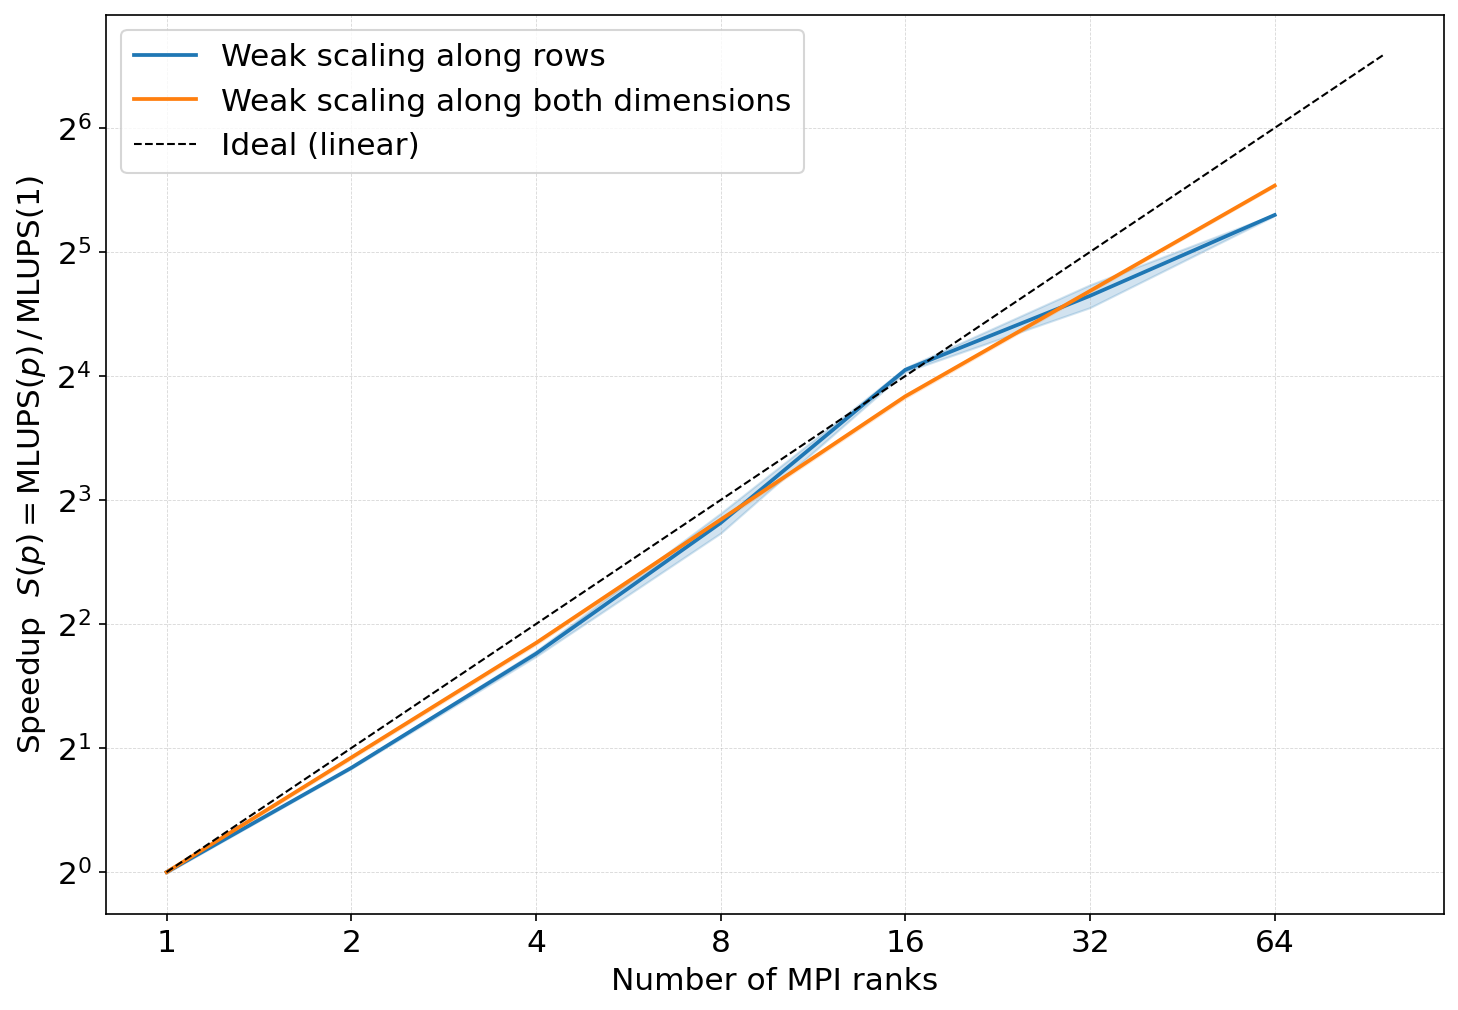
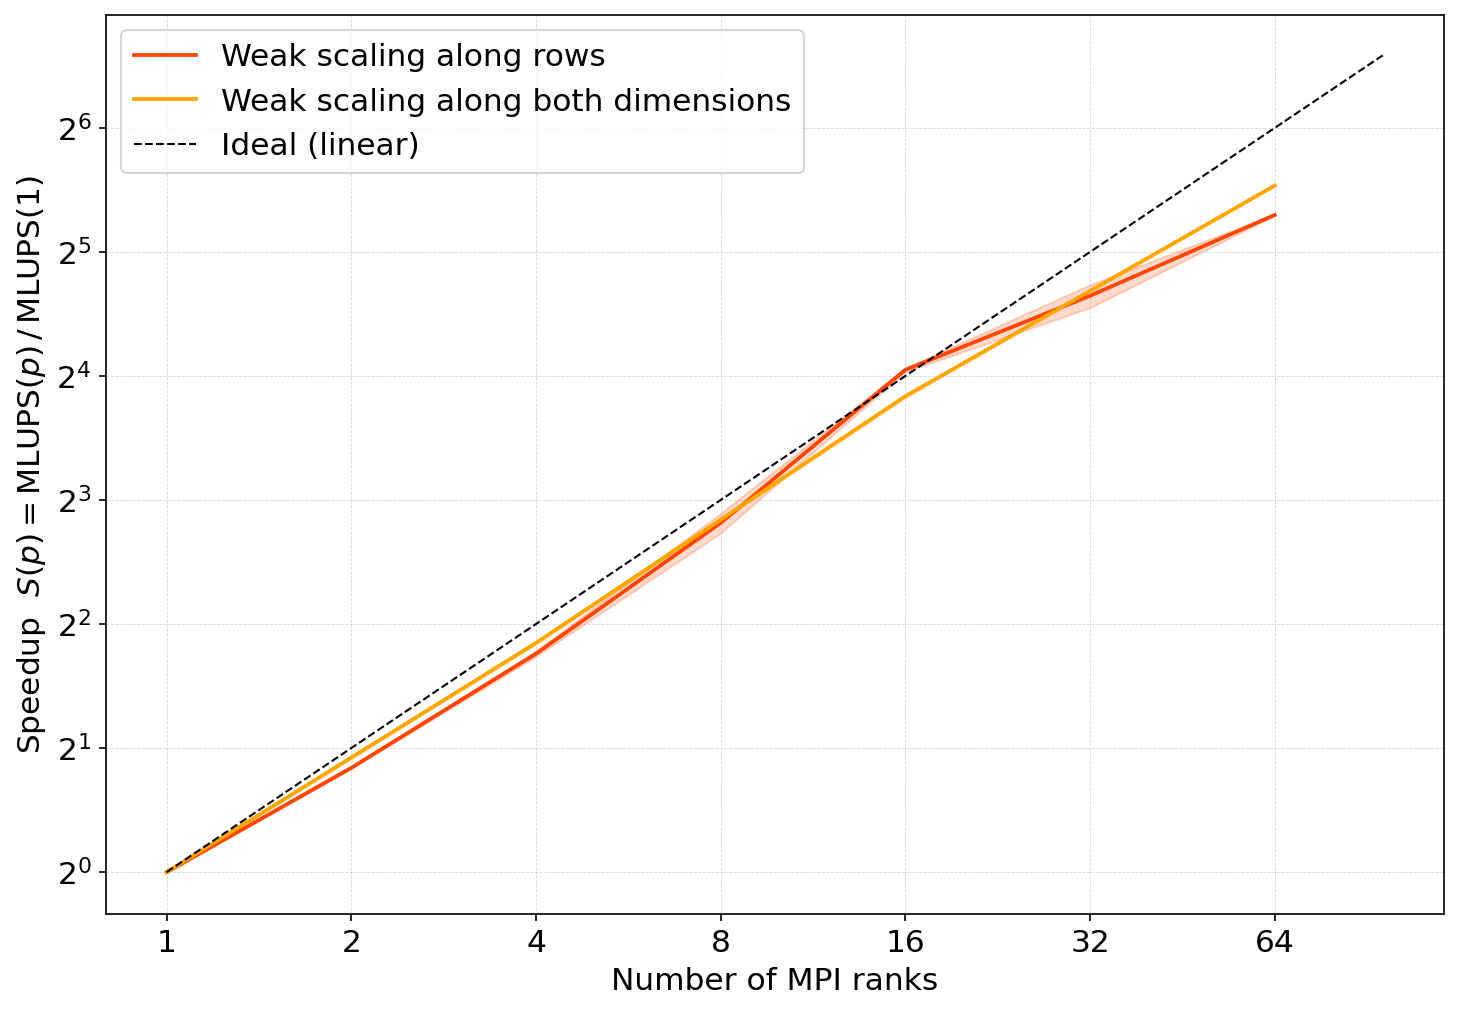
fix colors on plots

diff --git a/viz/mpi_scaling.py b/viz/mpi_scaling.py
@@ -16,14 +16,14 @@ import matplotlib.pyplot as plt
 import seaborn as sns
 import os
 
-FOLDER = "./figs/scalings_mpi_cart/"
+FOLDER = "./figs/scalings_mpi_row_wise/"
 os.makedirs(FOLDER, exist_ok=True)
 plt.rcParams.update({
     "font.size": 15
 })
 
 # ── Configuration ─────────────────────────────────────────────────────────────
-CSV   = "./out/cart_strong_scaling_mpi/results.csv"
+CSV   = "./out/strong_scaling_mpi/results.csv"
 ALPHA = 0.9942   # parallelisable fraction for Amdahl's law  (0 < alpha <= 1)
 OUT   = FOLDER + "strong_scaling.png"
 # ──────────────────────────────────────────────────────────────────────────────
@@ -72,8 +72,8 @@ print(f"Saved {OUT}")
 plt.close(fig)
 
 # ── Weak scaling ───────────────────────────────────────────────────────────────
-CSV_WEAK = "./out/cart_weak_scaling_mpi/results.csv"
-CSV_WEAK_2D = "./out/cart_weak_scaling_mpi_2D/results.csv"  
+CSV_WEAK = "./out/weak_scaling_mpi/results.csv"
+CSV_WEAK_2D = "./out/weak_scaling_mpi_2D/results.csv"  
 OUT_WEAK = FOLDER + "weak_scaling_efficiency.png"
 # ──────────────────────────────────────────────────────────────────────────────
 
@@ -99,7 +99,7 @@ sns.lineplot(data=dw, x="nranks", y="efficiency", estimator="mean",
              label="Weak scaling along rows", ax=ax2)
 
 sns.lineplot(data=dw_2D, x="nranks", y="efficiency", estimator="mean",
-             errorbar="sd", color="tab:orange", linewidth=1.8,
+             errorbar="sd", color="lightblue", linewidth=1.8,
              label="Weak scaling along both dimensions", ax=ax2)
 
 
@@ -139,7 +139,7 @@ sns.lineplot(data=dw, x="nranks", y="speedup", estimator="mean",
              errorbar="sd", color="tab:blue", linewidth=1.8,
              label="Weak scaling along rows", ax=ax3)
 sns.lineplot(data=dw_2D, x="nranks", y="speedup", estimator="mean",
-             errorbar="sd", color="tab:orange", linewidth=1.8,
+             errorbar="sd", color="lightblue", linewidth=1.8,
              label="Weak scaling along both dimensions", ax=ax3)
 
 ax3.plot(p_smooth, p_smooth,
